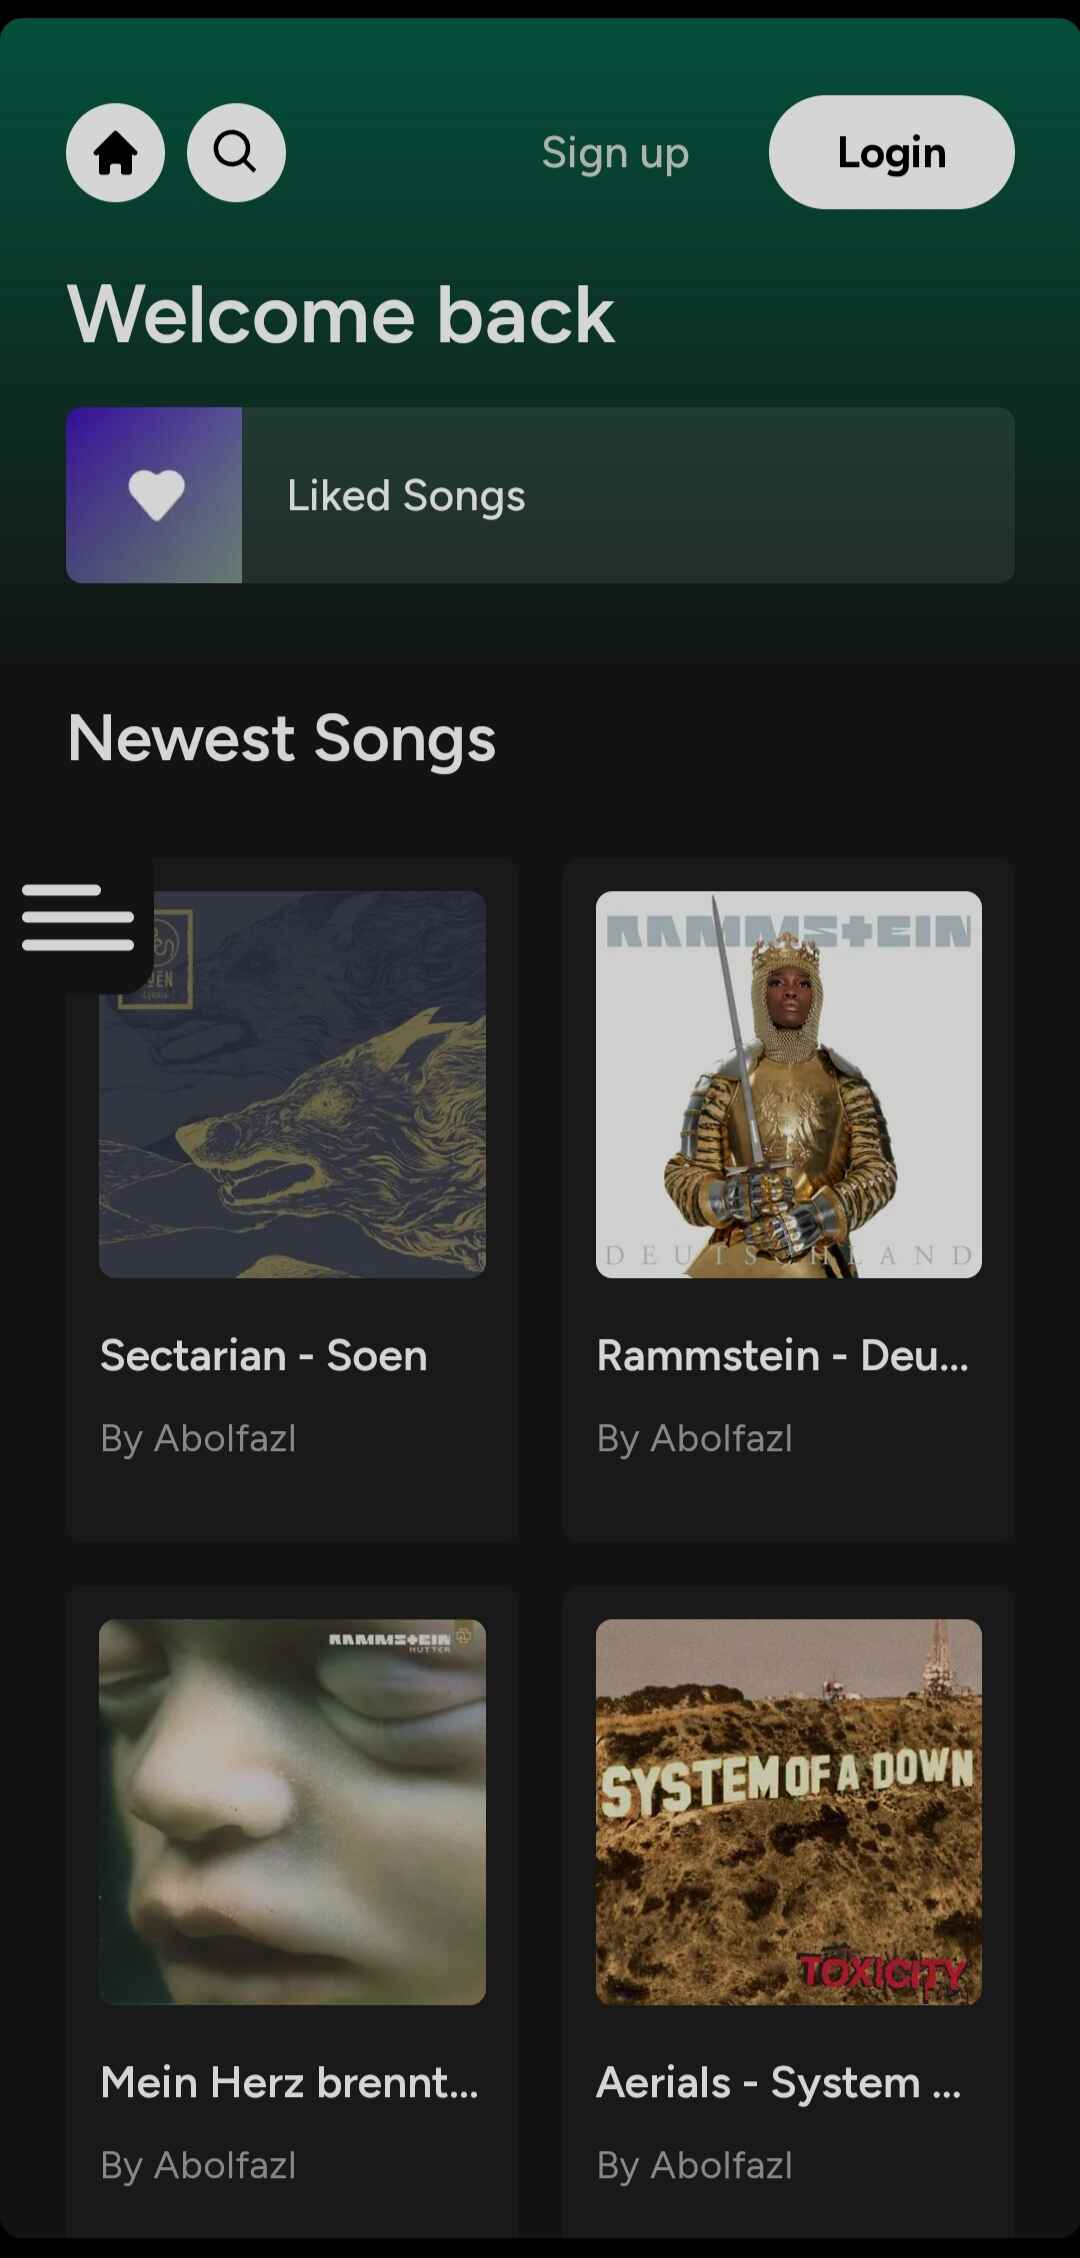
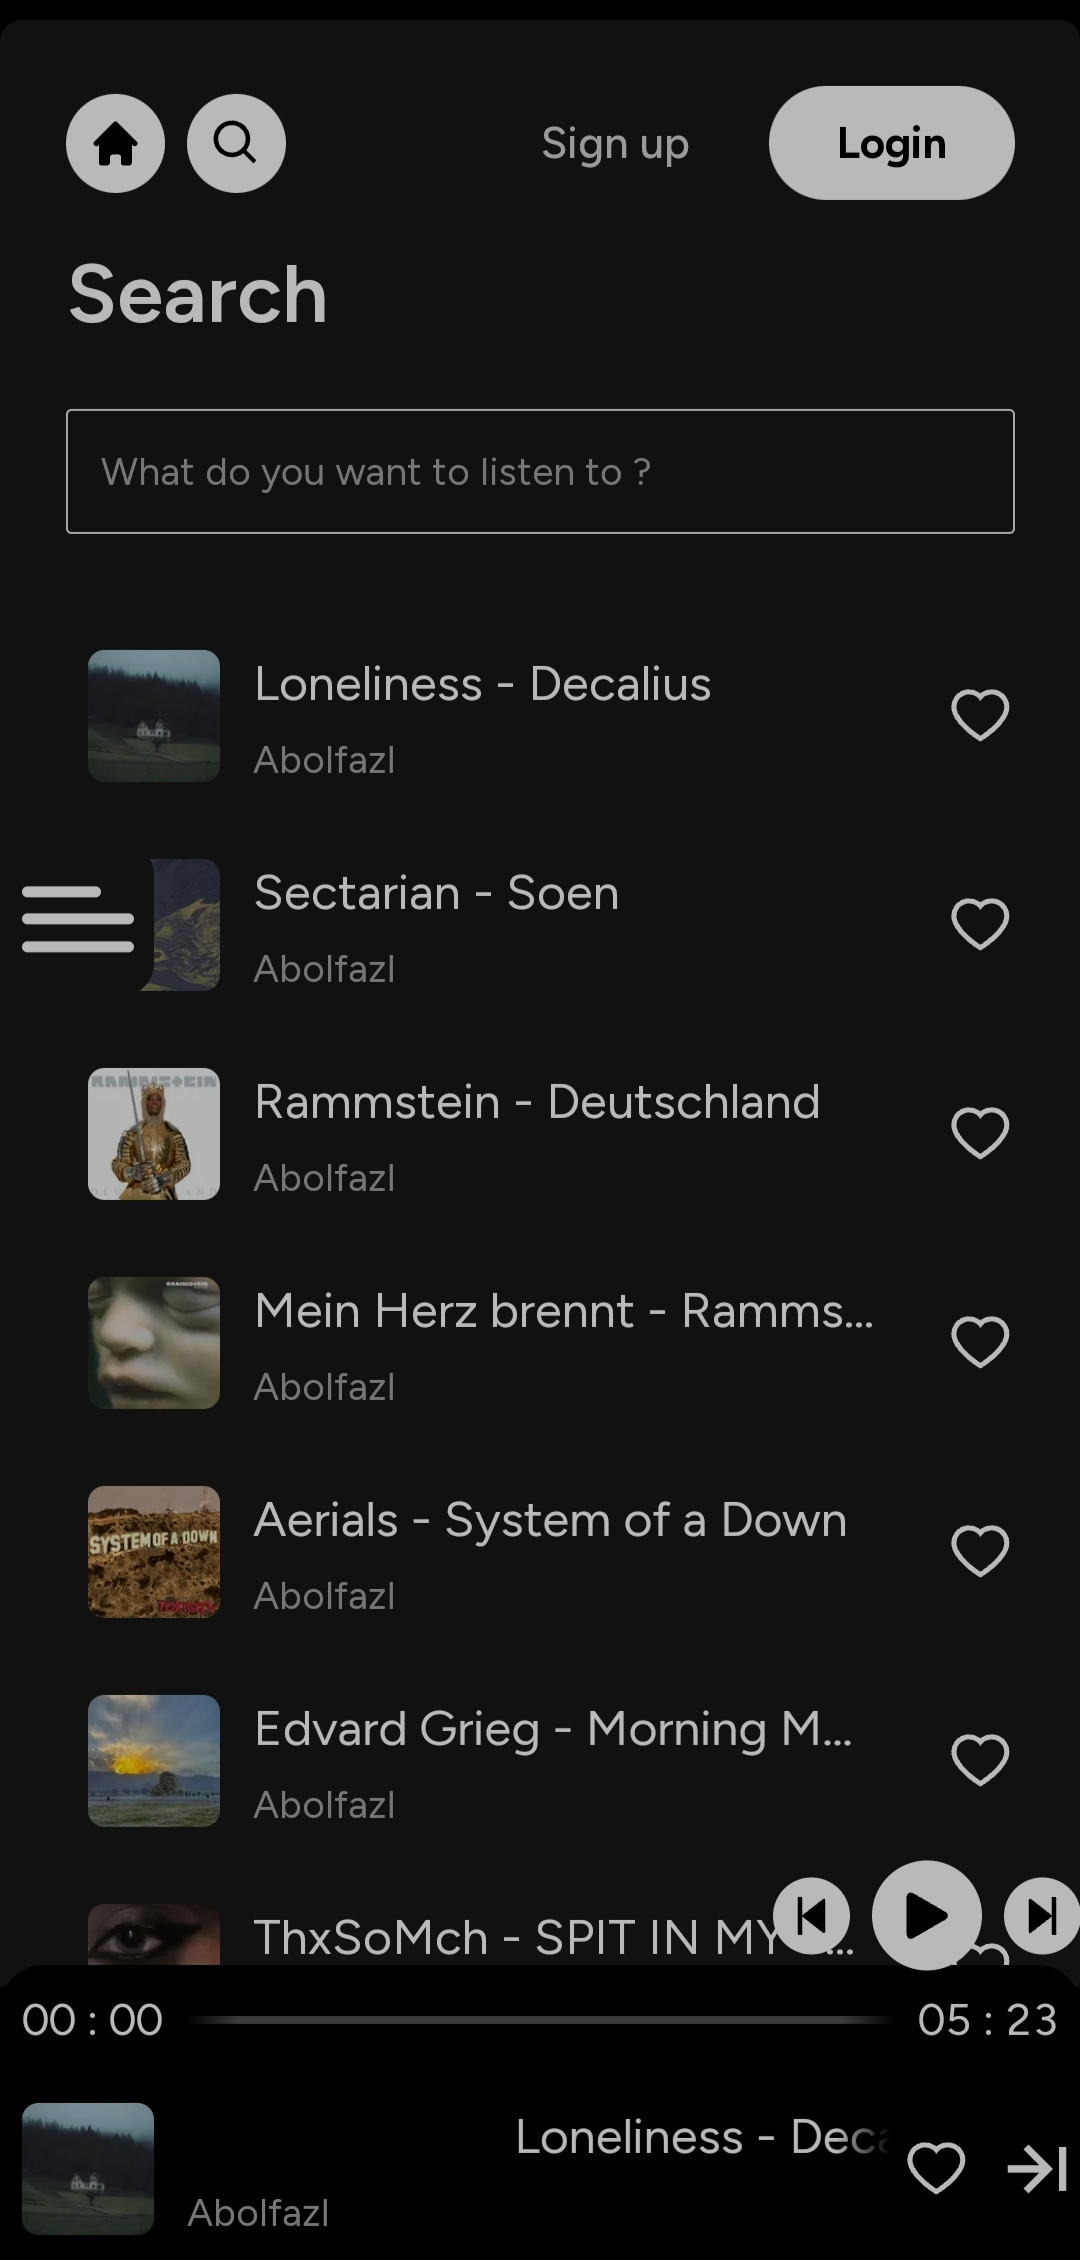
add an skeleton loading to images

diff --git a/public/offline.html b/public/offline.html
@@ -1,1 +1,1 @@
-<!DOCTYPE html><html lang="en"><head><meta charset="UTF-8"/><meta name="viewport"content="width=device-width,initial-scale=1,maximum-scale=5,viewport-fit=cover"/><link rel="icon" href="/icons/melodimix-192.png"/><link rel="apple-touch-icon" href="/icons/melodimix-192.png"/><link rel="manifest" href="/manifest.webmanifest"/><meta name="description"content="You're offline, check your internet connection and try again."/><meta name="theme-color"content="#065f46"/><meta name="color-scheme"content="dark"/><title>You're offline )):</title><style>body{background-color:black;font-family:Arial,Helvetica,sans-serif;display:flex;flex-direction:column;justify-content:center;align-items:center;height:100vh;height:100svh;margin:0;padding:0 1rem;}div{display:flex;align-items:center;gap:10px;}button{padding:0.75rem;border-radius:999px;background-color:#22c55e;color:black;border:none;cursor:pointer;transition:opacity 0.3s ease;font-size:1.2rem;font-weight:bold;margin-top:10px;-webkit-tap-highlight-color:transparent;}button:hover{opacity:0.75;}button:focus-visible{opacity: 0.75;outline: none;}</style></head><body><div><h1>You're currently <span style="color:#065f46">offline.</span></h1><img src="/icons/offline.png"alt="offline icon"width="40"height="40"/></div><p>it looks like you're offline, Unfortunately we haven't cached this page, so make sure you're online and try again.</p><button onclick="window.location.reload()">Reload</button></body></html>
+<!DOCTYPE html><html lang="en"><head><meta charset="UTF-8"/><meta name="viewport"content="width=device-width,initial-scale=1,maximum-scale=5,viewport-fit=cover"/><link rel="icon" href="/icons/melodimix-192.png"/><link rel="apple-touch-icon" href="/icons/melodimix-192.png"/><link rel="manifest" href="/manifest.webmanifest"/><meta name="description"content="You're offline, check your internet connection and try again."/><meta name="theme-color"content="#065f46"/><meta name="color-scheme"content="dark"/><title>You're offline )):</title><style>body{background-color:black;font-family:Arial,Helvetica,sans-serif;display:flex;flex-direction:column;justify-content:center;align-items:center;height:100vh;height:100svh;margin:0;padding:0 1rem;}div{display:flex;align-items:center;gap:10px;}button{padding:0.75rem;border-radius:999px;background-color:#22c55e;color:black;border:none;cursor:pointer;transition:opacity 0.3s ease;font-size:1.2rem;font-weight:bold;margin-top:10px;-webkit-tap-highlight-color:transparent;}button:hover{opacity:0.75;}button:focus-visible{opacity: 0.75;outline: none;}</style></head><body><div><h1>You're currently <span style="color:#065f46">offline.</span></h1><svg stroke="white"fill="none"stroke-width="2"viewBox="0 0 24 24" aria-hidden="true"style="min-width:3.5rem;min-height:3.5rem"width="3.5rem"height="3.5rem"xmlns="http://www.w3.org/2000/svg"><path stroke-linecap="round"stroke-linejoin="round"d="M18.364 5.636a9 9 0 010 12.728m0 0l-2.829-2.829m2.829 2.829L21 21M15.536 8.464a5 5 0 010 7.072m0 0l-2.829-2.829m-4.243 2.829a4.978 4.978 0 01-1.414-2.83m-1.414 5.658a9 9 0 01-2.167-9.238m7.824 2.167a1 1 0 111.414 1.414m-1.414-1.414L3 3m8.293 8.293l1.414 1.414"></path></svg></div><p>it looks like you're offline, Unfortunately we haven't cached this page, so make sure you're online and try again.</p><button onclick="window.location.reload()">Reload</button></body></html>

diff --git a/components/SongCover.tsx b/components/SongCover.tsx
@@ -1,37 +1,55 @@
 import Image, { ImageProps } from "next/image";
 import { useState } from "react";
+import { HiOutlineStatusOffline } from "react-icons/hi";
 import { twMerge } from "tailwind-merge";
 
-type Props = ImageProps;
-
-const SongCover = ({ src, alt, width, height, className, ...props }: Props) => {
+const SongCover = ({
+  src,
+  alt,
+  width,
+  height,
+  className,
+  ...props
+}: ImageProps) => {
   const [imageStatus, setImageStatus] = useState<
     "loading" | "loaded" | "error"
   >("loading");
 
-  return imageStatus === "error" ? (
-    <div className="flex justify-center items-center h-full w-full bg-black">
-      <img
-        src="/icons/offline.png"
-        alt="You're offline"
-        className="size-[30%] object-cover"
+  if (imageStatus === "error") {
+    return (
+      <div
+        className="flex justify-center items-center h-full w-full"
+        aria-label="Could not load image"
+      >
+        <HiOutlineStatusOffline className="text-white size-[30%]" />
+      </div>
+    );
+  }
+
+  return (
+    <>
+      <Image
+        className={twMerge(
+          "object-cover h-full transition-opacity opacity-0",
+          imageStatus === "loaded" && "opacity-100",
+          className
+        )}
+        src={src}
+        alt={alt + " poster"}
+        width={width}
+        height={height}
+        onLoad={() => setImageStatus("loaded")}
+        onError={() => setImageStatus("error")}
+        {...props}
       />
-    </div>
-  ) : (
-    <Image
-      className={twMerge(
-        "object-cover h-full transition-opacity opacity-0",
-        imageStatus === "loaded" && "opacity-100",
-        className
+
+      {imageStatus === "loading" && (
+        <div
+          aria-label="Image is loading"
+          className="bg-gradient-to-r from-neutral-950 via-neutral-900 to-neutral-950 w-[300%] h-[200%] absolute top-0 left-0 animate-skeleton"
+        />
       )}
-      src={src}
-      alt={alt + " poster"}
-      width={width}
-      height={height}
-      onLoad={() => setImageStatus("loaded")}
-      onError={() => setImageStatus("error")}
-      {...props}
-    />
+    </>
   );
 };
 

diff --git a/app/(main)/page.tsx b/app/(main)/page.tsx
@@ -1,6 +1,8 @@
 import { getSongs } from "@/actions/getSongs";
 import Header from "@/components/Header";
 import Loader from "@/components/Loader";
+import LikedImage from "@/public/images/liked.png";
+import Image from "next/image";
 import Link from "next/link";
 import { Suspense } from "react";
 import { FaPlay } from "react-icons/fa";
@@ -37,10 +39,13 @@ export default async function Home() {
               className="relative group flex items-center rounded-md overflow-hidden gap-x-4 bg-neutral-100/10 hover:bg-neutral-100/20 focus-visible:bg-neutral-100/20 outline-none transition pr-4"
             >
               <div className="relative min-h-[64px] min-w-[64px]" aria-hidden>
-                <img
-                  src="/images/liked.png"
-                  alt="Liked songs"
+                <Image
+                  src={LikedImage}
+                  alt="Liked musics"
                   className="object-cover size-16"
+                  width={64}
+                  height={64}
+                  placeholder="blur"
                 />
               </div>
 

diff --git a/app/liked/page.tsx b/app/liked/page.tsx
@@ -1,6 +1,8 @@
 import { getLikedSongs } from "@/actions/getLikedSongs";
 import Header from "@/components/Header";
 import Loader from "@/components/Loader";
+import LikedImage from "@/public/images/liked.png";
+import Image from "next/image";
 import { Suspense } from "react";
 import { LikedContent } from "./components/LikedContent";
 
@@ -24,10 +26,13 @@ const LikedSongsPage = () => {
             className="relative size-32 lg:size-44"
             aria-labelledby="like-title"
           >
-            <img
-              src="/images/liked.png"
-              alt="Liked songs"
+            <Image
+              src={LikedImage}
+              alt="Liked Songs"
+              width={100}
+              height={100}
               className="object-cover size-32 lg:size-44"
+              placeholder="blur"
             />
           </div>
 

diff --git a/components/SongCard.tsx b/components/SongCard.tsx
@@ -40,7 +40,7 @@ const SongCard = ({ data, onClick }: Props) => {
       className="relative group flex flex-col text-left rounded-md overflow-hidden gap-x-4 bg-neutral-400/5 cursor-pointer hover:bg-neutral-400/10 focus-visible:bg-neutral-400/10 outline-none transition p-3"
       aria-label={"Play the " + data.title + " song"}
     >
-      <div className="relative aspect-square w-full h-full rounded-md overflow-hidden">
+      <div className="relative aspect-square w-full h-full rounded-md overflow-hidden bg-neutral-950">
         <SongCover
           src={imagePath || "/images/liked.png"}
           alt={data.title}

diff --git a/app/manifest.ts b/app/manifest.ts
@@ -62,12 +62,12 @@ export default function manifest(): Manifest {
       },
       {
         src: "/images/1.jpg",
-        sizes: "1080x2258",
+        sizes: "1080x2260",
         type: "image/jpg",
       },
       {
         src: "/images/2.jpg",
-        sizes: "1080x2256",
+        sizes: "1080x2260",
         type: "image/jpg",
       },
     ],
@@ -105,5 +105,6 @@ export default function manifest(): Manifest {
         url: "/search?song_title=%s",
       },
     ],
+    categories: ["Song", "Song player", "Music player", "Spotify clone"],
   };
 }

diff --git a/components/SongItem.tsx b/components/SongItem.tsx
@@ -24,7 +24,7 @@ const SongItem = ({ data, onClick, player }: Props) => {
       className="flex items-center text-left gap-x-3 cursor-pointer hover:bg-neutral-800/50 focus-visible:bg-neutral-800/50 outline-none w-full p-2 rounded-md"
       aria-label={"Play the " + data.title + " song"}
     >
-      <div className="relative rounded-md min-w-12 h-12 overflow-hidden">
+      <div className="relative rounded-md min-w-12 h-12 overflow-hidden bg-neutral-950">
         <SongCover
           src={imageUrl || "/images/liked.png"}
           alt={data.title}

diff --git a/tailwind.config.ts b/tailwind.config.ts
@@ -7,7 +7,17 @@ const config: Config = {
     "./app/**/*.{js,ts,jsx,tsx,mdx}",
   ],
   theme: {
-    extend: {},
+    extend: {
+      keyframes: {
+        skeleton: {
+          "0%": { transform: "translate(-100%, -100%) rotateZ(45deg)" }, 
+          "100%": { transform: "translate(100%, 150%) rotateZ(45deg)" }, 
+        },
+      },
+      animation: {
+        skeleton: "skeleton 8s linear infinite",
+      },
+    },
   },
   plugins: [],
 };

diff --git a/public/sw.js b/public/sw.js
@@ -8,8 +8,6 @@ const assets = [
   "/cacheWorker.js",
   "/appVersion.js",
   "/logo.svg",
-  "/icons/offline.png",
-  "/images/liked.png",
   "/images/1.jpg",
   "/images/2.jpg",
   "/images/d1.png",
